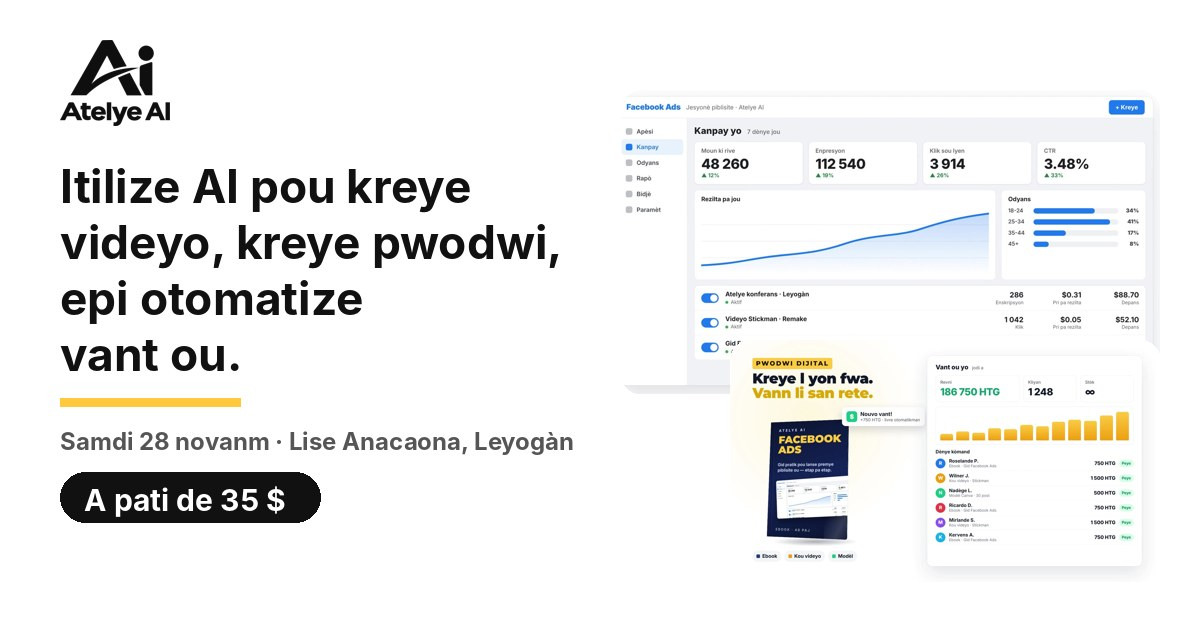
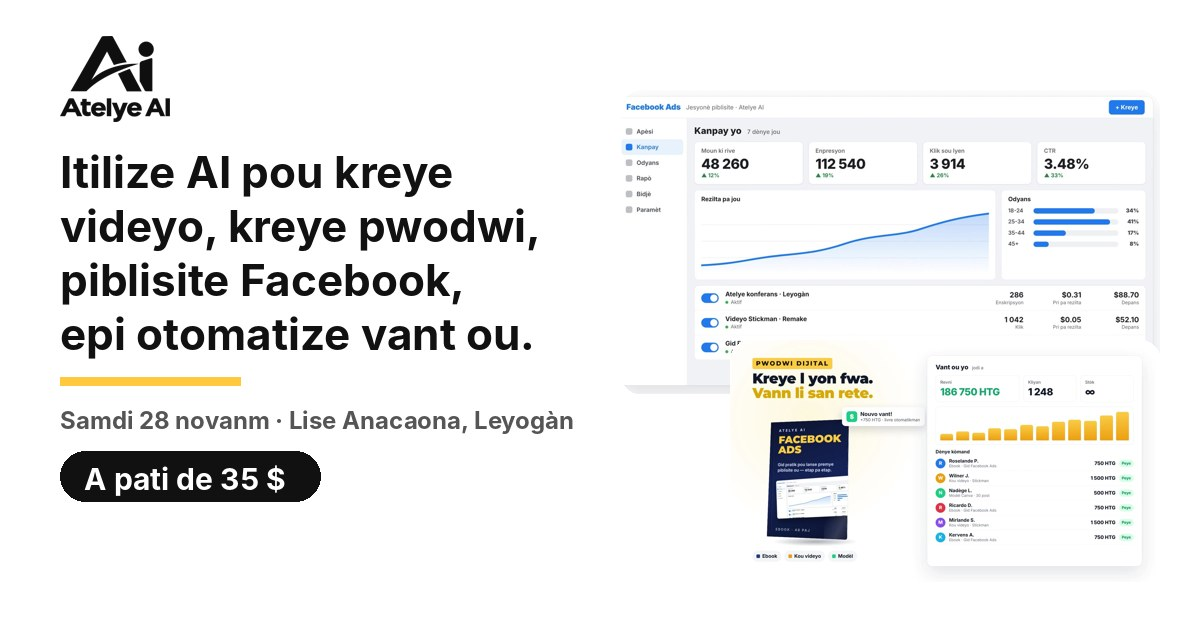
Konferans: headline adds Facebook ads
Claude-Session: https://claude.ai/code/session_01EfbnunJUApRHNS5LHtqyBb

Changed region(s): [[0.0308, 0.2413, 0.4933, 0.8444], [0.0308, 0.0603, 0.1542, 0.2111]]

diff --git a/public/konferans.html b/public/konferans.html
@@ -3,9 +3,9 @@
 <head>
 <meta charset="utf-8">
 <meta name="viewport" content="width=device-width, initial-scale=1">
-<title>Itilize AI pou kreye videyo, kreye pwodwi, epi otomatize vant ou · Atelye konferans Atelye AI</title>
+<title>Itilize AI pou kreye videyo, kreye pwodwi, piblisite Facebook, epi otomatize vant ou · Atelye AI</title>
 <meta name="description" content="Yon jounen pratik pou lanse biznis ou sou entènèt: Facebook Ads, jenerasyon prospè, videyo ki vann ak AI. Samdi 28 novanm, Lise Anacaona, Leyogàn. Tikè a pati de 35 $.">
-<meta property="og:title" content="Itilize AI pou kreye videyo, kreye pwodwi, epi otomatize vant ou · Atelye AI">
+<meta property="og:title" content="Itilize AI pou kreye videyo, kreye pwodwi, piblisite Facebook, epi otomatize vant ou · Atelye AI">
 <meta property="og:description" content="Yon jounen pratik pou lanse biznis ou sou entènèt: Facebook Ads, jenerasyon prospè, videyo ki vann ak AI. Samdi 28 novanm, Lise Anacaona, Leyogàn. Tikè a pati de 35 $.">
 <meta property="og:image" content="https://atelye-ai.vercel.app/art/konferans-share.jpg">
 <meta property="og:image:width" content="1200">
@@ -235,7 +235,7 @@
 <section class="lh"><div class="wrap g">
   <div>
     <div class="eyebrow tr8">Atelye konferans · Leyogàn</div>
-    <h1>Itilize AI pou kreye videyo, kreye pwodwi, epi otomatize vant ou.</h1>
+    <h1>Itilize AI pou kreye videyo, kreye pwodwi, piblisite Facebook, epi otomatize vant ou.</h1>
     <div class="kdl" aria-label="Dat ak kote">
       <div class="kal"><small>Samdi</small><b>28</b><small>Novanm</small></div>
       <div class="kin"><b>Samdi 28 novanm 2026</b><span>10h00 – 4h00 · akèy depi 9h30</span><b class="kt2">📍 Lise Anacaona, Leyogàn</b></div>
